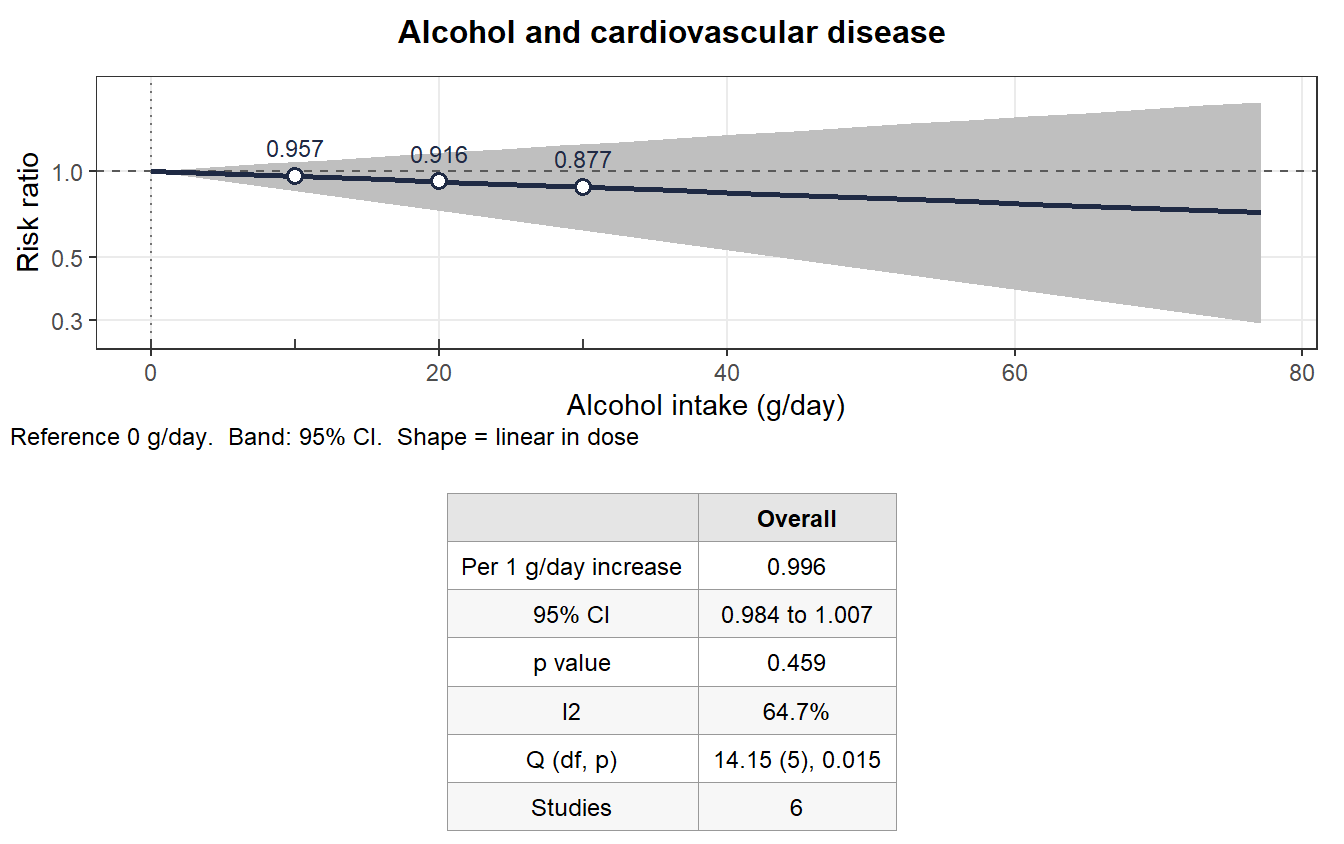
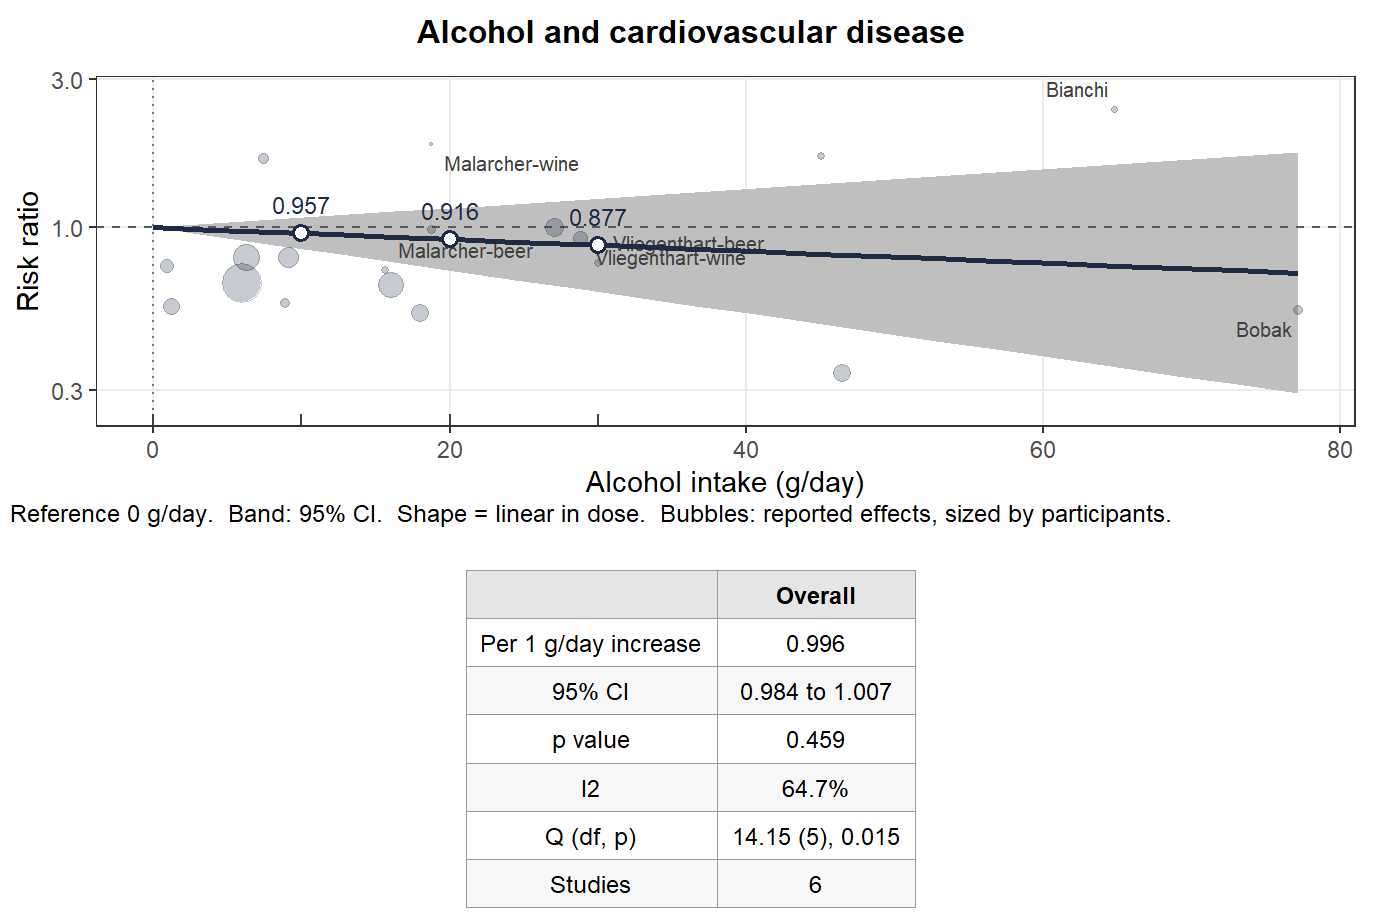
feat(curve): draw the studies behind the curve, and rework chapter 4 figures
easydr_curve() gains studies and studlabel. studies draws one bubble per
reported dose category at the effect that study gave it, sized by the
participants that category carried, derived from the fitted frame: a ratio
measure exponentiates the stored log contrast, a continuous measure differences
the group mean against its study reference. The y axis makes room for the
bubbles rather than clipping them. studlabel writes each study's name once, at
its highest dose, justified inward on the right half of the panel and
alternating above and below so two studies ending at the same dose do not
collide.

Chapter 4: the opening figure now shows all six studies, one colour each,
rather than one cohort; the dose-coverage panel is removed; every display of
results goes through easyDR's own printed output instead of a hand-built data
frame; both forests fit the page column.

diff --git a/README.md b/README.md
@@ -59,7 +59,7 @@ from your table.
 | Function | What it answers | Main arguments |
 |:---|:---|:---|
 | `easydr()` | What is the dose-response? | `data`, `sm`, `shape`, `dose.unit`, `at`, `subgroup`, `method.tau`, `proc`, `common`, `random` |
-| `easydr_curve()` | What does it look like? | `x`, `main`, `xlab`, `ylab`, `ylim`, `round`, `prediction`, `subgroup`, `result` |
+| `easydr_curve()` | What does it look like? | `x`, `main`, `xlab`, `ylab`, `ylim`, `round`, `prediction`, `studies`, `studlabel`, `subgroup`, `result` |
 | `easydr_forest()` | What did each study contribute? | `x`, `at`, `order`, `subgroup`, `columns`, `main`, `xlim` |
 | `easydr_loo()` | Is one study carrying it? | `object`, `at`, `plot`, `quiet` |
 | `easydr_funnel()` | Are the small studies different? | `x`, `at`, `labels`, `levels`, `shade` |
